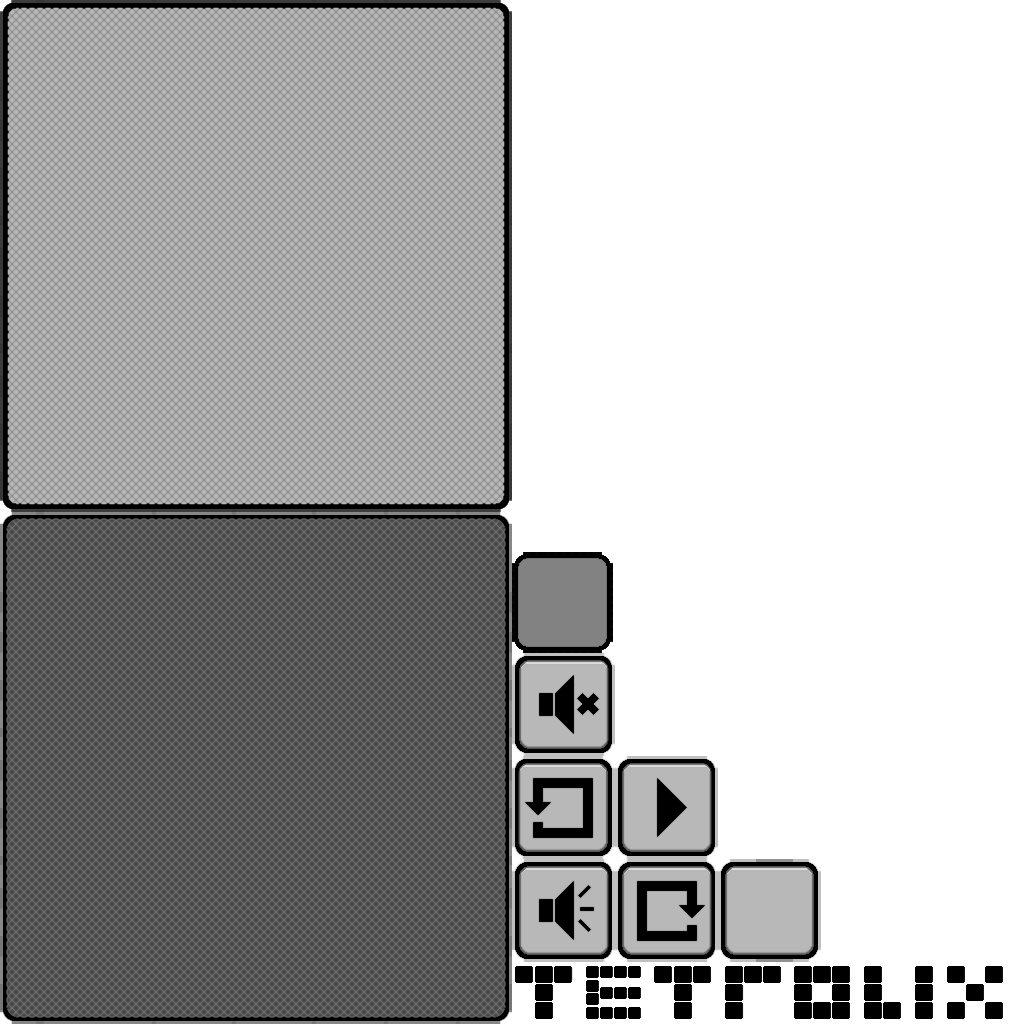
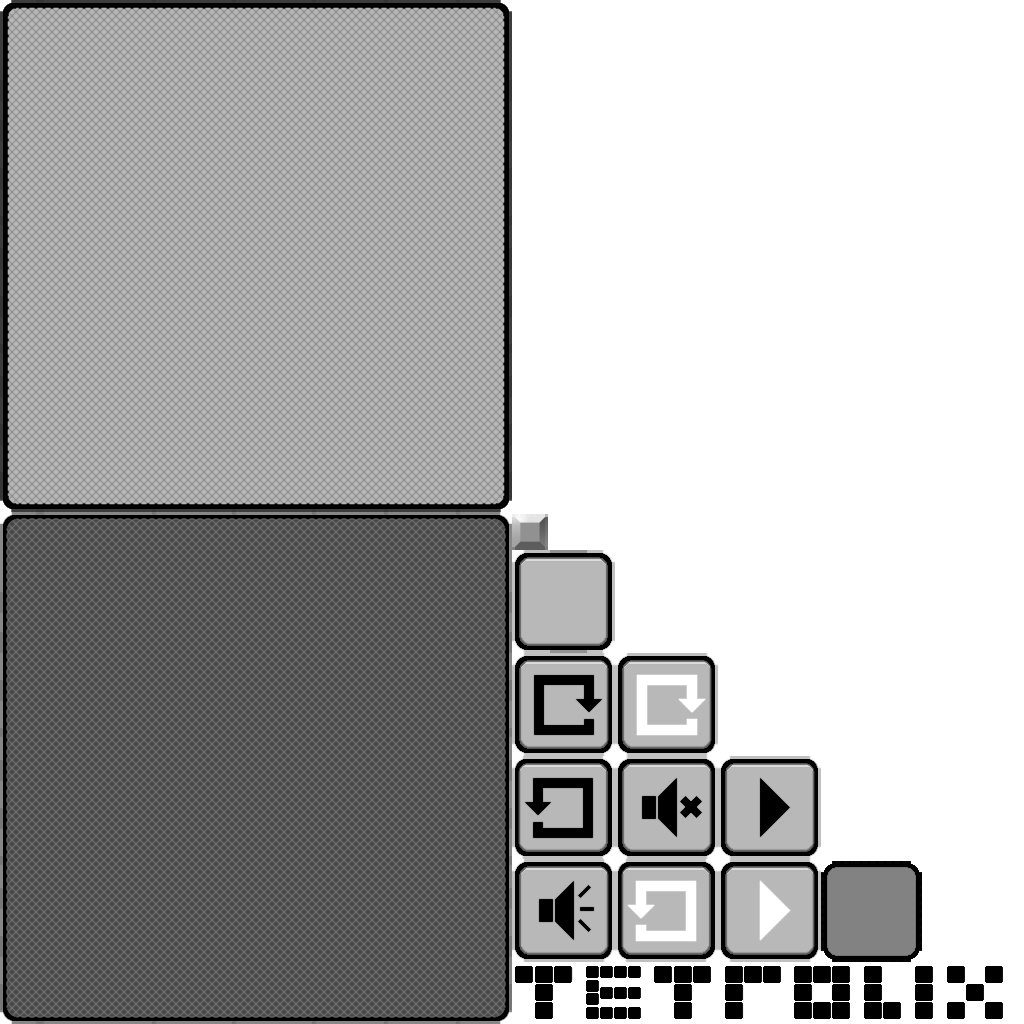
- added block texture to texture atlas to reduce texture bindings - added "pressed" versions of the important UI buttons

Changed region(s): [[0.5, 0.5, 0.9062, 0.9375], [0.5938, 0.8438, 0.6875, 0.9375]]

diff --git a/core/src/com/tetrolix/game/Assets.kt b/core/src/com/tetrolix/game/Assets.kt
@@ -3,17 +3,8 @@ package com.tetrolix.game
 import com.badlogic.gdx.assets.AssetManager
 import com.badlogic.gdx.audio.Music
 import com.badlogic.gdx.audio.Sound
-import com.badlogic.gdx.graphics.Texture
 import ktx.assets.getAsset
 import ktx.assets.load
-
-// textures
-enum class TextureAssets(val filePath: String) {
-    Block("graphics/block.png")
-}
-
-fun AssetManager.load(asset: TextureAssets) = load<Texture>(asset.filePath)
-operator fun AssetManager.get(asset: TextureAssets) = getAsset<Texture>(asset.filePath)
 
 // music
 enum class MusicAssets(val filePath: String) {
@@ -44,7 +35,12 @@ operator fun AssetManager.get(asset: SoundAssets) = getAsset<Sound>(asset.filePa
 
 // UI
 enum class Drawables {
-    Btn, BtnMusicOn, BtnMusicOff, BtnArrow, BtnRotateLeft, BtnRotateRight, BtnDark, Gutter, GutterDark, Banner;
+    Btn,
+    BtnMusicOn, BtnMusicOff,
+    BtnArrow, BtnArrowPressed,
+    BtnRotateLeft, BtnRotateLeftPressed,
+    BtnRotateRight, BtnRotateRightPressed,
+    BtnDark, Gutter, GutterDark, Banner, Block;
 
     operator fun invoke() = toString()
 }

diff --git a/core/src/com/tetrolix/game/Tetrolix.kt b/core/src/com/tetrolix/game/Tetrolix.kt
@@ -98,15 +98,15 @@ class Tetrolix : KtxGame<KtxScreen>() {
             }
             imageButton(Buttons.Arrow()) {
                 imageUp = it[BtnArrow]
-                imageDown = it[BtnArrow]
+                imageDown = it[BtnArrowPressed]
             }
             imageButton(Buttons.RotateLeft()) {
                 imageUp = it[BtnRotateLeft]
-                imageDown = it[BtnRotateLeft]
+                imageDown = it[BtnRotateLeftPressed]
             }
             imageButton(Buttons.RotateRight()) {
                 imageUp = it[BtnRotateRight]
-                imageDown = it[BtnRotateRight]
+                imageDown = it[BtnRotateRightPressed]
             }
             // window styles
             window {

diff --git a/core/src/com/tetrolix/game/screen/LoadingScreen.kt b/core/src/com/tetrolix/game/screen/LoadingScreen.kt
@@ -28,7 +28,6 @@ class LoadingScreen(private val context: Context) : KtxScreen {
     private var finishedLoading = false
 
     override fun show() {
-        TextureAssets.values().forEach { assets.load(it) }
         MusicAssets.values().forEach { assets.load(it) }
         SoundAssets.values().forEach { assets.load(it) }
 
